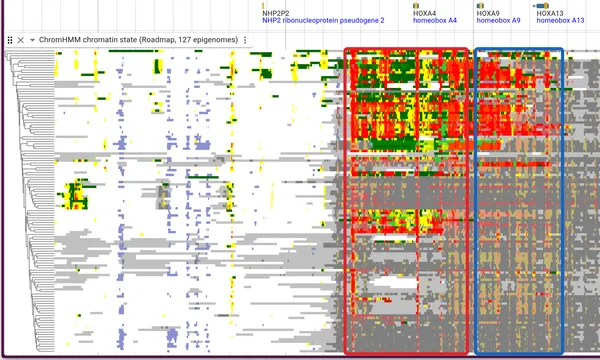
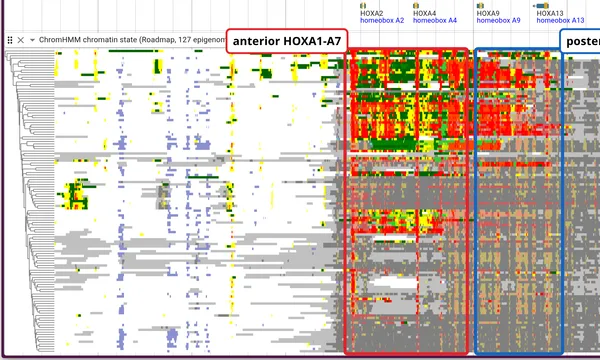
docs(tutorials): show the MSA control check, and clear the docs checks
The genomes_msa page's control check was prose only: "the rows without a
pyrin domain are not empty there, several carry ordinary sequence". A
whole-protein overlay cannot show that, so the claim had nothing behind
it. `genomes_msa/pyrin_residues` is the same alignment left at the zoom
it opens on, which is already the columns the check is about: the pyrin
block on the human row, ordinary residues under it on dog, cattle and
pig, and gap on mouse.

Single frame rather than a fourth stage on launch_sequence, because a
stack cannot be a gallery card — gen-gallery-thumbs fits inside
1200x600, so a 3000x4600 stack paints as a 170px sliver. So this is also
the card the tutorial had been missing under "Genes and proteins".

`pnpm check-docs` failed before this on three captions past 400
characters, all from figures that had been reworked without their
captions following. Trimmed by moving the glossary into the prose that
introduces each figure, which is what the check asks for: the chromhmm
state colors, the LD matrix's sidebar and gene lanes, and the
single-population caveat that was guidance rather than a caption.
long-captions.txt drops an entry and gains none.

Both new stale-thumb reports (chromhmm, hic_structural_variants) come
from committed source figures, so regenerating them here is derived
output, not a claim on anyone's in-flight work.

Claude-Session: https://claude.ai/code/session_01A8yLzUstDF3CdPf1s6RESB

Changed region(s): [[0.36, 0.0, 0.69, 0.1528], [0.93, 0.0611, 1.0, 0.1528]]

diff --git a/website/scripts/specs/msa.ts b/website/scripts/specs/msa.ts
@@ -1,6 +1,9 @@
 import { UCSC_HG38_CONFIG, sessionSpec } from '../screenshot-spec-helpers.ts'
 
-import type { ScreenshotSpec } from '../screenshot-spec-types.ts'
+import type {
+  ScreenshotAction,
+  ScreenshotSpec,
+} from '../screenshot-spec-types.ts'
 
 // Figures for the genomes_msa tutorial.
 //
@@ -33,50 +36,90 @@ import type { ScreenshotSpec } from '../screenshot-spec-types.ts'
 // tutorial's last section says.
 const NLRP1_WINDOW = 'chr17:5,495,000-5,591,000'
 
+// The gene track carries an explicit height and longestCoding glyph mode: the
+// right-click is resolved against the track's band, and an auto height is a
+// function of how many isoforms RefSeq draws at this locus, so the click
+// coordinate would move whenever that changed.
+const NLRP1_SESSION = sessionSpec(UCSC_HG38_CONFIG, {
+  views: [
+    {
+      type: 'LinearGenomeView',
+      assembly: 'hg38',
+      loc: NLRP1_WINDOW,
+      tracks: [
+        {
+          trackId: 'hg38-ncbiRefSeqCurated',
+          geneGlyphMode: 'longestCoding',
+          height: 60,
+        },
+      ],
+    },
+  ],
+})
+
+const RIGHT_CLICK_NLRP1: ScreenshotAction = {
+  type: 'rightclick',
+  anchor: {
+    track: 'hg38-ncbiRefSeqCurated',
+    locus: 'chr17:5,543,000',
+    // near the top of the band, not its middle. `longestCoding` draws this
+    // locus as a single gene row, so the lower two thirds of a 60px track are
+    // empty canvas: a centered right-click opens the view's own menu with no
+    // feature items in it, and the stage then fails on the launcher it was
+    // waiting for rather than on the click that missed.
+    fracY: 0.2,
+  },
+}
+
+// Open the launch dialog and wait for it to be usable. The tab label paints
+// before the dialog has resolved the transcript's protein sequence, and the
+// isoform selector is still filling in at that point. Submit is disabled until
+// that sequence arrives, so an enabled Submit is the declarative "dialog is
+// ready" rather than a guess at how long the fetch takes.
+const OPEN_LAUNCH_DIALOG: ScreenshotAction[] = [
+  { type: 'click', text: 'Launch MSA view' },
+  { type: 'waitForText', text: 'Orthologs (fast)' },
+  {
+    type: 'waitForSelector',
+    selector: 'button:not([disabled])::-p-text(Submit)',
+    // Longer than the 30s default, because what gates it is a range read out of
+    // hgdownload's hg38.2bit for the transcript's CDS. hgdownload is the
+    // slowest host any of these figures touch, and at 30s this failed on a
+    // pending 2bit request often enough to read as a broken selector.
+    timeout: 120000,
+  },
+]
+
+// Submit, then wait out a live NCBI lookup plus an EBI Clustal Omega job.
+// Seconds rather than minutes, which is the tutorial's whole point, but
+// network-bound: the domain overlay is a second round trip after the alignment
+// itself lands.
+//
+// Gate on the RESULT, not on a timer, and specifically on the entry these
+// figures are OF. The legend lists one row per domain type present anywhere in
+// the alignment, and the human row is the only one with a pyrin, so
+// `Pyrin_NALPs` appears only once NCBI has returned the human protein record. A
+// looser gate on NACHT passes without it: eutils answers a burst of these runs
+// with HTTP 429, the human row silently loses its domain calls, and the frame
+// is an overlay missing the one block the page is about. Which is what it
+// shipped as, once.
+const SUBMIT_AND_WAIT: ScreenshotAction[] = [
+  { type: 'click', selector: 'button::-p-text(Submit)' },
+  { type: 'waitForText', text: 'Pyrin_NALPs', timeout: 180000 },
+]
+
 export const msaSpecs: ScreenshotSpec[] = [
   {
     mode: 'url',
     name: 'genomes_msa/launch_sequence',
-    // The gene track carries an explicit height and longestCoding glyph mode:
-    // the right-click is resolved against the track's band, and an auto height
-    // is a function of how many isoforms RefSeq draws at this locus, so the
-    // click coordinate would move whenever that changed.
-    url: sessionSpec(UCSC_HG38_CONFIG, {
-      views: [
-        {
-          type: 'LinearGenomeView',
-          assembly: 'hg38',
-          loc: NLRP1_WINDOW,
-          tracks: [
-            {
-              trackId: 'hg38-ncbiRefSeqCurated',
-              geneGlyphMode: 'longestCoding',
-              height: 60,
-            },
-          ],
-        },
-      ],
-    }),
+    url: NLRP1_SESSION,
     // A menu, the dialog it opens, and the view that dialog builds: each stage
     // is reachable only by driving the one before it, so they are stages of one
     // spec rather than three specs.
     stages: [
       {
         actions: [
-          {
-            type: 'rightclick',
-            anchor: {
-              track: 'hg38-ncbiRefSeqCurated',
-              locus: 'chr17:5,543,000',
-              // near the top of the band, not its middle. `longestCoding` draws
-              // this locus as a single gene row, so the lower two thirds of a
-              // 60px track are empty canvas: a centered right-click opens the
-              // view's own menu with no feature items in it, and the stage then
-              // fails on the launcher it was waiting for rather than on the
-              // click that missed.
-              fracY: 0.2,
-            },
-          },
+          RIGHT_CLICK_NLRP1,
           { type: 'waitForText', text: 'Launch MSA view' },
         ],
         // Both boxes are assertions, not decoration: an anchor that resolves to
@@ -95,25 +138,7 @@ export const msaSpecs: ScreenshotSpec[] = [
         viewportHeight: 540,
       },
       {
-        actions: [
-          { type: 'click', text: 'Launch MSA view' },
-          { type: 'waitForText', text: 'Orthologs (fast)' },
-          // The tab label paints before the dialog has resolved the
-          // transcript's protein sequence, and the isoform selector is still
-          // filling in at that point. Submit is disabled until that sequence
-          // arrives, so an enabled Submit is the declarative "dialog is ready"
-          // rather than a guess at how long the fetch takes.
-          {
-            type: 'waitForSelector',
-            selector: 'button:not([disabled])::-p-text(Submit)',
-            // Longer than the 30s default, because what gates it is a range
-            // read out of hgdownload's hg38.2bit for the transcript's CDS.
-            // hgdownload is the slowest host any of these figures touch, and at
-            // 30s this stage failed on a pending 2bit request often enough to
-            // read as a broken selector.
-            timeout: 120000,
-          },
-        ],
+        actions: OPEN_LAUNCH_DIALOG,
         annotations: [
           { type: 'box', anchor: { text: 'Orthologs (fast)' } },
           { type: 'box', anchor: { text: 'Species to include' } },
@@ -126,25 +151,11 @@ export const msaSpecs: ScreenshotSpec[] = [
         viewportHeight: 880,
       },
       {
-        // Submit, then wait out a live NCBI lookup plus an EBI Clustal Omega
-        // job. Seconds rather than minutes, which is the tutorial's whole
-        // point, but network-bound: the domain overlay is a second round trip
-        // after the alignment itself lands.
         actions: [
-          { type: 'click', selector: 'button::-p-text(Submit)' },
-          // Gate on the RESULT, not on a timer, and specifically on the entry
-          // this figure is OF. The legend lists one row per domain type present
-          // anywhere in the alignment, and the human row is the only one with a
-          // pyrin, so `Pyrin_NALPs` appears only once NCBI has returned the
-          // human protein record. A looser gate on NACHT passes without it:
-          // eutils answers a burst of these runs with HTTP 429, the human row
-          // silently loses its domain calls, and the frame is a whole-protein
-          // overlay missing the one block the page is about. Which is what it
-          // shipped as, once.
-          { type: 'waitForText', text: 'Pyrin_NALPs', timeout: 180000 },
+          ...SUBMIT_AND_WAIT,
           // The view opens at colWidth 12, which is residue zoom: about a
           // hundred columns of a ~1500-column alignment, and none of the domain
-          // blocks the figure is of. Fit horizontally is the one action that
+          // blocks this frame is of. Fit horizontally is the one action that
           // puts the whole protein on screen, and it computes the width instead
           // of stepping 0.75x per click toward a floor that would still leave
           // the C terminus off the right edge.
@@ -172,6 +183,27 @@ export const msaSpecs: ScreenshotSpec[] = [
     viewportHeight: 900,
     // the UCSC hub config is ~570 tracks and pulls four remote plugins, the
     // same reason genomes_synteny raises this
+    readyTimeout: 120000,
+  },
+  {
+    // The same alignment left at the zoom it OPENS at, which is the one thing
+    // the fitted whole-protein frame above cannot show: individual residues.
+    // The tutorial's control check is that the rows without a pyrin block are
+    // not empty under it, and "no domain annotated" and "no sequence" are the
+    // same picture at whole-protein zoom. scrollX starts at 0 and the pyrin
+    // call is at query residue 9, so the columns the view opens on are the
+    // columns the check is about, with no scrolling to write down.
+    //
+    // Single frame rather than a fourth stage on the spec above: a stack is
+    // unusable as a gallery card (gen-gallery-thumbs fits inside 1200x600, so a
+    // 3000x4600 stack paints as a 170px-wide sliver), and this is the figure
+    // the gallery card is cut from.
+    mode: 'url',
+    name: 'genomes_msa/pyrin_residues',
+    url: NLRP1_SESSION,
+    actions: [RIGHT_CLICK_NLRP1, ...OPEN_LAUNCH_DIALOG, ...SUBMIT_AND_WAIT],
+    hideTooltip: true,
+    viewportHeight: 878,
     readyTimeout: 120000,
   },
 ]

diff --git a/website/src/lib/galleryLinks.generated.ts b/website/src/lib/galleryLinks.generated.ts
@@ -246,6 +246,7 @@ export const specSessionUrls: Record<string, string> = {
   "maf_summary_zoomed_out": "?config=test_data/hg38_multiz470way.json&session=spec-%7B%22sessionTracks%22%3A%5B%7B%22type%22%3A%22FeatureTrack%22%2C%22trackId%22%3A%22ncbi_genes_hg38_ucsc%22%2C%22name%22%3A%22NCBI%20RefSeq%20(UCSC)%22%2C%22assemblyNames%22%3A%5B%22hg38%22%5D%2C%22adapter%22%3A%7B%22type%22%3A%22Gff3TabixAdapter%22%2C%22gffGzLocation%22%3A%7B%22uri%22%3A%22https%3A%2F%2Fjbrowse.org%2Fucsc%2Fhg38%2Fhg38.gff.gz%22%2C%22locationType%22%3A%22UriLocation%22%7D%2C%22index%22%3A%7B%22location%22%3A%7B%22uri%22%3A%22https%3A%2F%2Fjbrowse.org%2Fucsc%2Fhg38%2Fhg38.gff.gz.csi%22%2C%22locationType%22%3A%22UriLocation%22%7D%2C%22indexType%22%3A%22CSI%22%7D%7D%7D%5D%2C%22views%22%3A%5B%7B%22type%22%3A%22LinearGenomeView%22%2C%22assembly%22%3A%22hg38%22%2C%22loc%22%3A%2212%3A6%2C450%2C000-6%2C630%2C000%22%2C%22trackLabels%22%3A%22offset%22%2C%22tracks%22%3A%5B%7B%22trackId%22%3A%22ncbi_genes_hg38_ucsc%22%2C%22type%22%3A%22LinearBasicDisplay%22%2C%22geneGlyphMode%22%3A%22longestCoding%22%2C%22showOnlyGenes%22%3Atrue%7D%2C%7B%22trackId%22%3A%22hg38.multiz470way%22%2C%22type%22%3A%22LinearMafDisplay%22%2C%22height%22%3A380%2C%22subtreeFilter%22%3A%5B%22hg38%22%2C%22panTro6%22%2C%22gorGor6%22%2C%22ponAbe3%22%2C%22rheMac10%22%2C%22HLcalJac4%22%2C%22otoGar3%22%2C%22mm39%22%2C%22rn6%22%2C%22cavPor3%22%2C%22hetGla2%22%2C%22oryCun2%22%2C%22tupBel1%22%2C%22bosTau9%22%2C%22HLoviAri5%22%2C%22susScr11%22%2C%22vicPac2%22%2C%22turTru2%22%2C%22equCab3%22%2C%22cerSim1%22%2C%22felCat9%22%2C%22canFam4%22%2C%22ursMar1%22%2C%22myoLuc2%22%2C%22eriEur2%22%2C%22HLloxAfr4%22%2C%22echTel2%22%2C%22oryAfe1%22%2C%22dasNov3%22%2C%22monDom5%22%2C%22HLornAna3%22%5D%2C%22forceLoad%22%3Atrue%7D%5D%7D%5D%7D&sessionName=Screenshot",
   "maf_summary_zoomed_in": "?config=test_data/hg38_multiz470way.json&session=spec-%7B%22sessionTracks%22%3A%5B%7B%22type%22%3A%22FeatureTrack%22%2C%22trackId%22%3A%22ncbi_genes_hg38_ucsc%22%2C%22name%22%3A%22NCBI%20RefSeq%20(UCSC)%22%2C%22assemblyNames%22%3A%5B%22hg38%22%5D%2C%22adapter%22%3A%7B%22type%22%3A%22Gff3TabixAdapter%22%2C%22gffGzLocation%22%3A%7B%22uri%22%3A%22https%3A%2F%2Fjbrowse.org%2Fucsc%2Fhg38%2Fhg38.gff.gz%22%2C%22locationType%22%3A%22UriLocation%22%7D%2C%22index%22%3A%7B%22location%22%3A%7B%22uri%22%3A%22https%3A%2F%2Fjbrowse.org%2Fucsc%2Fhg38%2Fhg38.gff.gz.csi%22%2C%22locationType%22%3A%22UriLocation%22%7D%2C%22indexType%22%3A%22CSI%22%7D%7D%7D%5D%2C%22views%22%3A%5B%7B%22type%22%3A%22LinearGenomeView%22%2C%22assembly%22%3A%22hg38%22%2C%22loc%22%3A%2212%3A6%2C537%2C000-6%2C537%2C200%22%2C%22trackLabels%22%3A%22offset%22%2C%22tracks%22%3A%5B%7B%22trackId%22%3A%22ncbi_genes_hg38_ucsc%22%2C%22type%22%3A%22LinearBasicDisplay%22%2C%22geneGlyphMode%22%3A%22longestCoding%22%2C%22showOnlyGenes%22%3Atrue%7D%2C%7B%22trackId%22%3A%22hg38.multiz470way%22%2C%22type%22%3A%22LinearMafDisplay%22%2C%22height%22%3A380%2C%22subtreeFilter%22%3A%5B%22hg38%22%2C%22panTro6%22%2C%22gorGor6%22%2C%22ponAbe3%22%2C%22rheMac10%22%2C%22HLcalJac4%22%2C%22otoGar3%22%2C%22mm39%22%2C%22rn6%22%2C%22cavPor3%22%2C%22hetGla2%22%2C%22oryCun2%22%2C%22tupBel1%22%2C%22bosTau9%22%2C%22HLoviAri5%22%2C%22susScr11%22%2C%22vicPac2%22%2C%22turTru2%22%2C%22equCab3%22%2C%22cerSim1%22%2C%22felCat9%22%2C%22canFam4%22%2C%22ursMar1%22%2C%22myoLuc2%22%2C%22eriEur2%22%2C%22HLloxAfr4%22%2C%22echTel2%22%2C%22oryAfe1%22%2C%22dasNov3%22%2C%22monDom5%22%2C%22HLornAna3%22%5D%2C%22forceLoad%22%3Atrue%7D%5D%7D%5D%7D&sessionName=Screenshot",
   "genomes_msa/launch_sequence": "?config=https%3A%2F%2Fjbrowse.org%2Fucsc%2Fhg38%2Fconfig.json&session=spec-%7B%22views%22%3A%5B%7B%22type%22%3A%22LinearGenomeView%22%2C%22assembly%22%3A%22hg38%22%2C%22loc%22%3A%22chr17%3A5%2C495%2C000-5%2C591%2C000%22%2C%22tracks%22%3A%5B%7B%22trackId%22%3A%22hg38-ncbiRefSeqCurated%22%2C%22geneGlyphMode%22%3A%22longestCoding%22%2C%22height%22%3A60%7D%5D%7D%5D%7D&sessionName=Screenshot",
+  "genomes_msa/pyrin_residues": "?config=https%3A%2F%2Fjbrowse.org%2Fucsc%2Fhg38%2Fconfig.json&session=spec-%7B%22views%22%3A%5B%7B%22type%22%3A%22LinearGenomeView%22%2C%22assembly%22%3A%22hg38%22%2C%22loc%22%3A%22chr17%3A5%2C495%2C000-5%2C591%2C000%22%2C%22tracks%22%3A%5B%7B%22trackId%22%3A%22hg38-ncbiRefSeqCurated%22%2C%22geneGlyphMode%22%3A%22longestCoding%22%2C%22height%22%3A60%7D%5D%7D%5D%7D&sessionName=Screenshot",
   "pangenome/pggb_synteny": "?config=https%3A%2F%2Fjbrowse.org%2Fdemos%2Fecoli_pangenome%2Fconfig.json&session=spec-%7B%22views%22%3A%5B%7B%22type%22%3A%22LinearSyntenyView%22%2C%22views%22%3A%5B%7B%22assembly%22%3A%22K12%22%7D%2C%7B%22assembly%22%3A%22Sakai%22%7D%2C%7B%22assembly%22%3A%22CFT073%22%7D%2C%7B%22assembly%22%3A%22NCTC86%22%7D%2C%7B%22assembly%22%3A%22IAI39%22%7D%5D%2C%22tracks%22%3A%5B%5B%22ecoli_pggb_ava%22%5D%2C%5B%22ecoli_pggb_ava%22%5D%2C%5B%22ecoli_pggb_ava%22%5D%2C%5B%22ecoli_pggb_ava%22%5D%5D%2C%22drawCurves%22%3Afalse%2C%22colorBy%22%3A%22default%22%2C%22minAlignmentLength%22%3A10000%2C%22levelHeights%22%3A%5B110%2C110%2C110%2C110%5D%2C%22collapseEmptyRows%22%3Atrue%7D%5D%7D&sessionName=Screenshot",
   "pangenome/maf": "?config=https%3A%2F%2Fjbrowse.org%2Fdemos%2Fecoli_pangenome%2Fconfig.json&session=spec-%7B%22views%22%3A%5B%7B%22type%22%3A%22LinearGenomeView%22%2C%22assembly%22%3A%22K12%22%2C%22loc%22%3A%22chr%3A4%2C540%2C000-4%2C600%2C000%22%2C%22tracks%22%3A%5B%7B%22trackId%22%3A%22K12_genes%22%2C%22type%22%3A%22LinearBasicDisplay%22%7D%2C%7B%22trackId%22%3A%22ecoli_pggb_variants%22%2C%22type%22%3A%22LinearMultiSampleVariantDisplay%22%2C%22height%22%3A120%7D%2C%7B%22trackId%22%3A%22ecoli_pggb_maf%22%2C%22type%22%3A%22LinearMafDisplay%22%7D%5D%7D%5D%7D&sessionName=Screenshot",
   "pangenome/pggb_untangle": "?config=https%3A%2F%2Fjbrowse.org%2Fdemos%2Fecoli_pangenome%2Fconfig.json&session=spec-%7B%22views%22%3A%5B%7B%22type%22%3A%22LinearSyntenyView%22%2C%22views%22%3A%5B%7B%22assembly%22%3A%22NCTC86%22%2C%22loc%22%3A%22chr%3A4%2C310%2C000-4%2C548%2C000%22%7D%2C%7B%22assembly%22%3A%22K12%22%2C%22loc%22%3A%22chr%3A3%2C940%2C800-3%2C947%2C400%22%2C%22tracks%22%3A%5B%7B%22trackId%22%3A%22K12_genes%22%7D%5D%7D%2C%7B%22assembly%22%3A%22Sakai%22%2C%22loc%22%3A%22chr%3A4%2C731%2C000-4%2C985%2C000%22%7D%5D%2C%22tracks%22%3A%5B%5B%22ecoli_pggb_untangle%22%5D%2C%5B%22ecoli_pggb_untangle%22%5D%5D%2C%22drawCurves%22%3Afalse%2C%22colorBy%22%3A%22default%22%2C%22levelHeights%22%3A%5B140%2C140%5D%7D%5D%7D&sessionName=Screenshot",

diff --git a/website/src/lib/gallery.ts b/website/src/lib/gallery.ts
@@ -453,6 +453,16 @@ export const gallerySections: readonly GallerySection[] = [
         description:
           'TP53 with RefSeq models and ClinVar variants beside its AlphaFold structure, connected through the genome-to-structure alignment. Hovering a variant in the genome highlights the residue it hits on the structure.',
       },
+      {
+        // pyrin_residues, not the tutorial's three-frame click-path figure: a
+        // stack fits inside 1200x600 as a sliver, and this is the same view
+        // anyway, left at the zoom it opens on.
+        label: 'Cross-species protein alignment',
+        spec: 'genomes_msa/pyrin_residues',
+        guide: 'tutorials/genomes_msa',
+        description:
+          "NLRP1 aligned across the species NCBI has an ortholog gene for, built by right-clicking the gene rather than from a file, with NCBI's conserved-domain calls drawn in alignment columns. The pyrin domain is called on the human row only.",
+      },
     ],
   },
   {

diff --git a/website/docs/tutorials/chromhmm.md b/website/docs/tutorials/chromhmm.md
@@ -187,7 +187,11 @@ names are mnemonics (`12_EnhBiv`, `14_ReprPCWk`) and the auto-derived key would
 show them as they are. Fifteen `{label, color}` entries spell them out and fix
 their order at 1 to 15 rather than by how much of each is on screen.
 
-<Figure src="/img/chromhmm.png" caption="127 Roadmap epigenomes over HOXA with 500 kb of flank, one row each, ordered by Cluster rows by similarity so the dendrogram is in the sidebar. Boxed and labeled: the anterior genes HOXA1 to HOXA7, and the posterior HOXA9 to HOXA13. The clustering splits the rows in two: an upper block opening the cluster in red active TSS, yellow enhancer and green transcription, and a lower block holding both boxes in grey Polycomb, speckled olive where the same bases are bivalent."/>
+Those colors are what the two blocks below are read by: red active TSS, yellow
+enhancer and green transcription in the upper one, grey Polycomb in the lower,
+speckled olive where the same bases are bivalent.
+
+<Figure src="/img/chromhmm.png" caption="127 Roadmap epigenomes over HOXA with 500 kb of flank, one row each, ordered by Cluster rows by similarity so the dendrogram is in the sidebar. Boxed and labeled: the anterior genes HOXA1 to HOXA7, and the posterior HOXA9 to HOXA13. The clustering splits the rows in two, one block opening the cluster and one holding both boxes repressed."/>
 
 At that row count `rowOrder` is 127 lines of config whose only job is to keep
 related tissues adjacent, which is exactly what **Cluster rows by similarity**

diff --git a/website/docs/config_guides/variant_track.md b/website/docs/config_guides/variant_track.md
@@ -270,13 +270,14 @@ skips the coloring.
 ## Linkage disequilibrium (LD) display
 
 JBrowse renders a triangular heatmap of pairwise r² (or D') between variants,
-from either of two sources.
+from either of two sources. The figure below is computed live from phased 1000
+Genomes genotypes.
 
 Point an LD track at a single population panel: r² is a correlation across the
 samples in the file, so a pooled multi-population callset averages the block
 away.
 
-<Figure src="/img/ld/lct_haploblock.png" caption="An LD triangle at the human lactase locus (LCT/MCM6), computed live from phased 1000 Genomes genotypes, over the haplotypes it summarises. Red means a pair of SNPs is almost always inherited together, so the block over the highlighted gene is one long haplotype with LD decaying into the paler flanks; the matrix below is one row per chromosome, and the pale slab is the same haplotype in the rows that carry it."/>
+<Figure src="/img/ld/lct_haploblock.png" caption="An LD triangle at the human lactase locus (LCT/MCM6), over the haplotypes it summarises. Red means a pair of SNPs is almost always inherited together, so the block over the highlighted gene is one long haplotype, with LD decaying into the paler flanks; the matrix below is one row per chromosome, and the pale slab is that haplotype in the rows carrying it."/>
 
 **Computed from a VCF.** Add an `LDDisplay` to a normal `VariantTrack`. No extra
 files are needed, and because the raw genotypes are present, the filtering

diff --git a/website/docs/tutorials/genomes_msa.md b/website/docs/tutorials/genomes_msa.md
@@ -96,12 +96,14 @@ InterProScan for domains...** to compute them.
 ## Checking it against the raw alignment
 
 A whole-protein view cannot tell "no domain annotated" from "no sequence", so
-read the residues. Scroll to the columns under the pyrin block and use the
-alignment's **Zoom in** button until the letters are legible again.
+read the residues. The zoom the view opened at is already the right one: scroll
+back to it, or use the alignment's **Zoom in** button until the letters return.
 
-The rows without a pyrin domain are not empty there. Several of them carry
-ordinary sequence in those columns with no domain called over it, which is a
-different statement from the sequence being absent. Only some rows are gap.
+The rows without a pyrin domain are not empty there. Most of them carry ordinary
+sequence in those columns with no domain called over it, which is a different
+statement from the sequence being absent. One row is gap.
+
+<Figure src="/img/genomes_msa/pyrin_residues.png" caption="The same alignment at the residue zoom it opens on, over the columns the pyrin block covers. The block is on the human query row alone; dog, cattle and pig carry ordinary residues under it with nothing called over them, and mouse is the one row that is gap there." />
 
 ## Trying other genes
 

diff --git a/website/docs/tutorials/ld_human.md b/website/docs/tutorials/ld_human.md
@@ -88,7 +88,7 @@ gives one row per chromosome and one column per variant. Its sidebar stripe is
 population, and above both lanes sit RefSeq genes and the ClinVar
 lactase-persistence records.
 
-<Figure src="/img/ld/lct_haploblock.png" caption="The triangle and the haplotypes it summarises, in one view over the same window. Below the triangle, 1000 Genomes haplotypes at LCT/MCM6, one row per chromosome, clustered rather than left in file order: the pale slab across the upper rows is one haplotype carried by many chromosomes, ending either side of the highlighted gene where the mosaic resumes, at the coordinates the block's edges sit at above."/>
+<Figure src="/img/ld/lct_haploblock.png" caption="The triangle and the haplotypes it summarises, in one view over the same window. Below the triangle, 1000 Genomes haplotypes at LCT/MCM6, one row per chromosome, clustered rather than left in file order: the pale slab across the upper rows is one haplotype carried by many chromosomes, ending either side of the highlighted gene, under the block's edges above."/>
 
 **Ordering is what makes a block visible, not colour and not row count.** Left
 in file order the same matrix is a plaid at any size, because a block is a set
